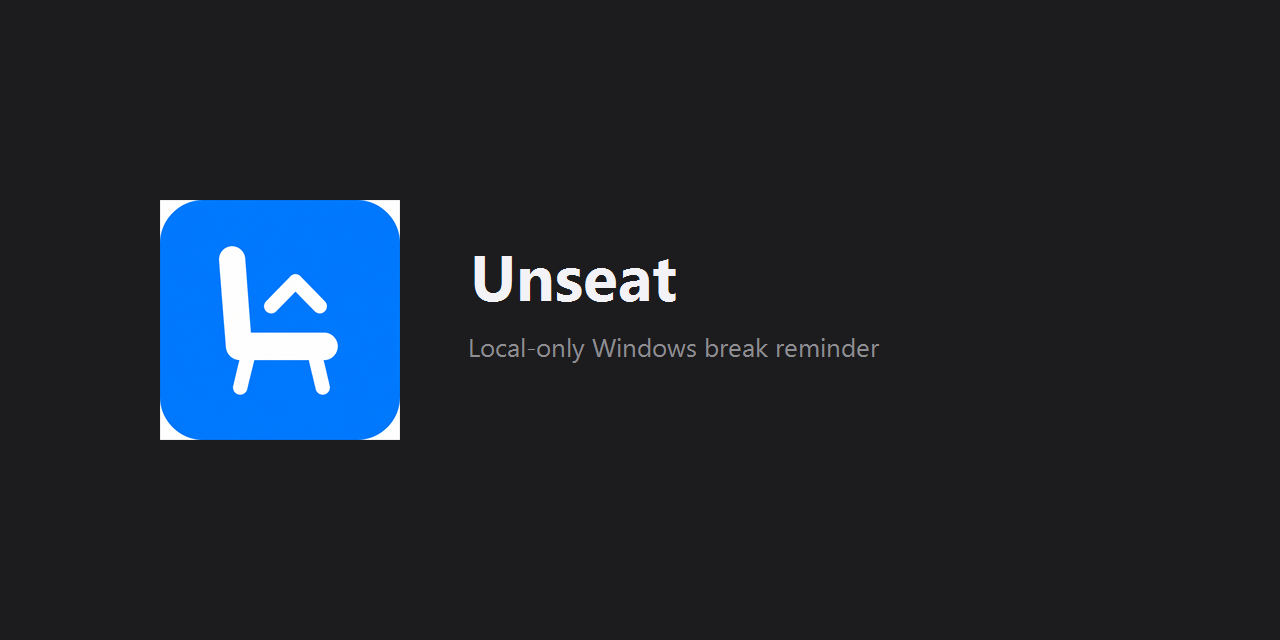
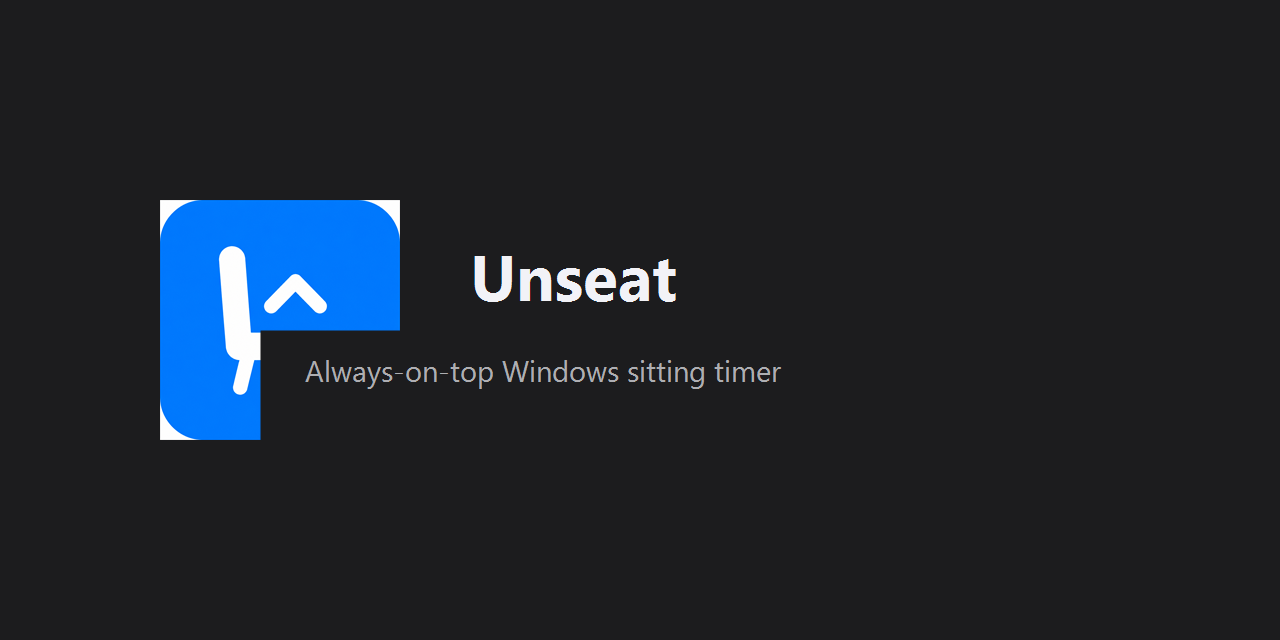
Refresh screenshots and list Unseat as a sitting timer.
GitHub search and the README now lead with timer, with current overlay and settings captures.

Changed region(s): [[0.1875, 0.5, 0.6875, 0.6875]]

diff --git a/README.md b/README.md
@@ -1,10 +1,10 @@
 <p align="center">
-  <img src="assets/logo.png" alt="Unseat logo" width="128">
+  <img src="assets/social.png" alt="Unseat always-on-top Windows sitting timer">
 </p>
 
 <h1 align="center">Unseat</h1>
 
-<p align="center">A local-only Windows break reminder. It sits on top of your work, tracks how long you have been at the desk, and nags you to get up.</p>
+<p align="center">An always-on-top <strong>sitting timer</strong> for Windows. A tiny overlay watch that counts desk time and nags you to stand up.</p>
 
 <p align="center">No accounts. No cloud. No telemetry.</p>
 
@@ -14,18 +14,20 @@
 </p>
 
 <p align="center">
-  <img src="assets/screenshots/widget.png" alt="Unseat overlay timer" width="480">
+  <img src="assets/screenshots/widget.png" alt="Unseat overlay sitting timer on the Windows desktop" width="420">
 </p>
 
 <p align="center">
-  <img src="assets/screenshots/settings.png" alt="Unseat settings" width="340">
+  <img src="assets/screenshots/settings.png" alt="Unseat timer settings with sounds, alert length, and snooze" width="360">
 </p>
 
-## What it does
+## Sitting timer for Windows
 
-- Always-on-top timer that starts when you launch it
+Unseat is a local desktop **timer** and break reminder. It stays on top of your work like a small watch, tracks how long you have been sitting, and alerts you when it is time to get up.
+
+- Always-on-top overlay timer that starts when you launch it
 - Idle or lock the session and it treats that as a break
-- A qualifying break resets the current session
+- A qualifying break resets the current sitting session
 - Pause freezes the clock; reset starts a fresh session
 - One alert at the limit, optional repeat while overdue
 - Choose a bundled sound, preview it, and how long it plays
